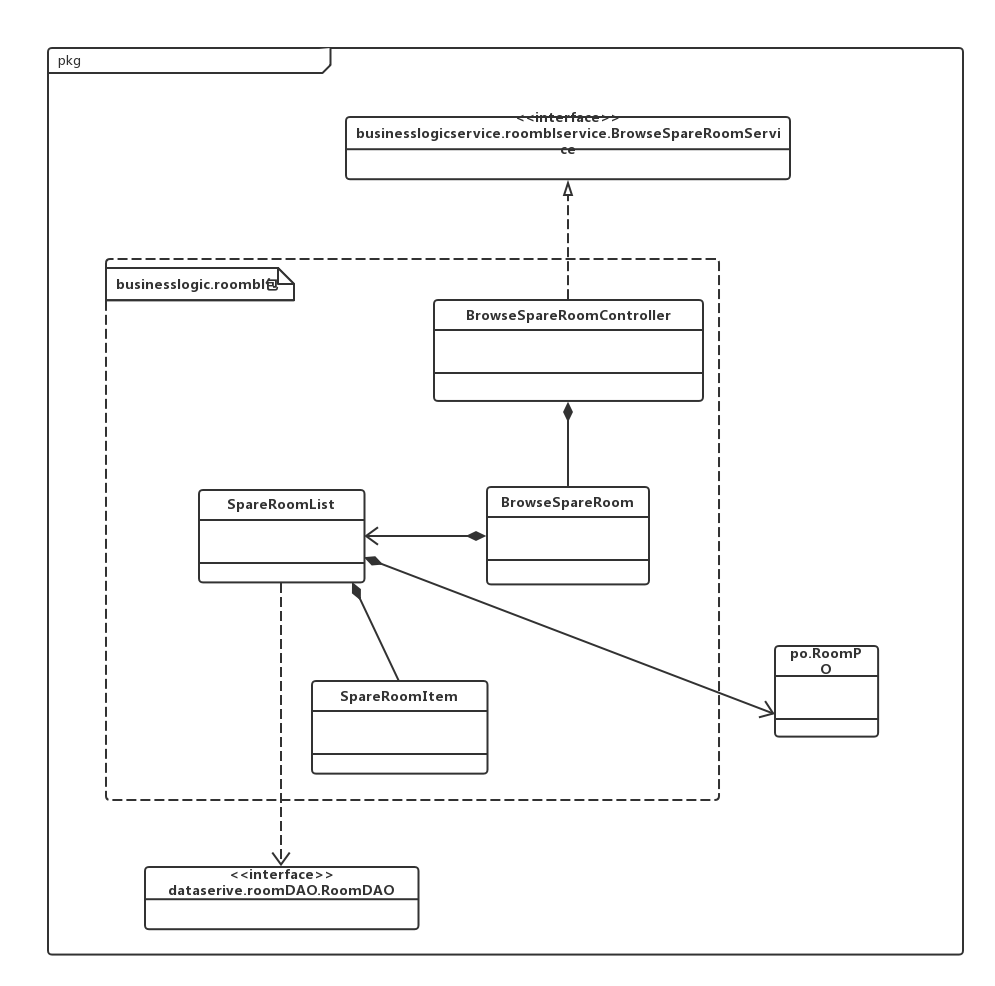
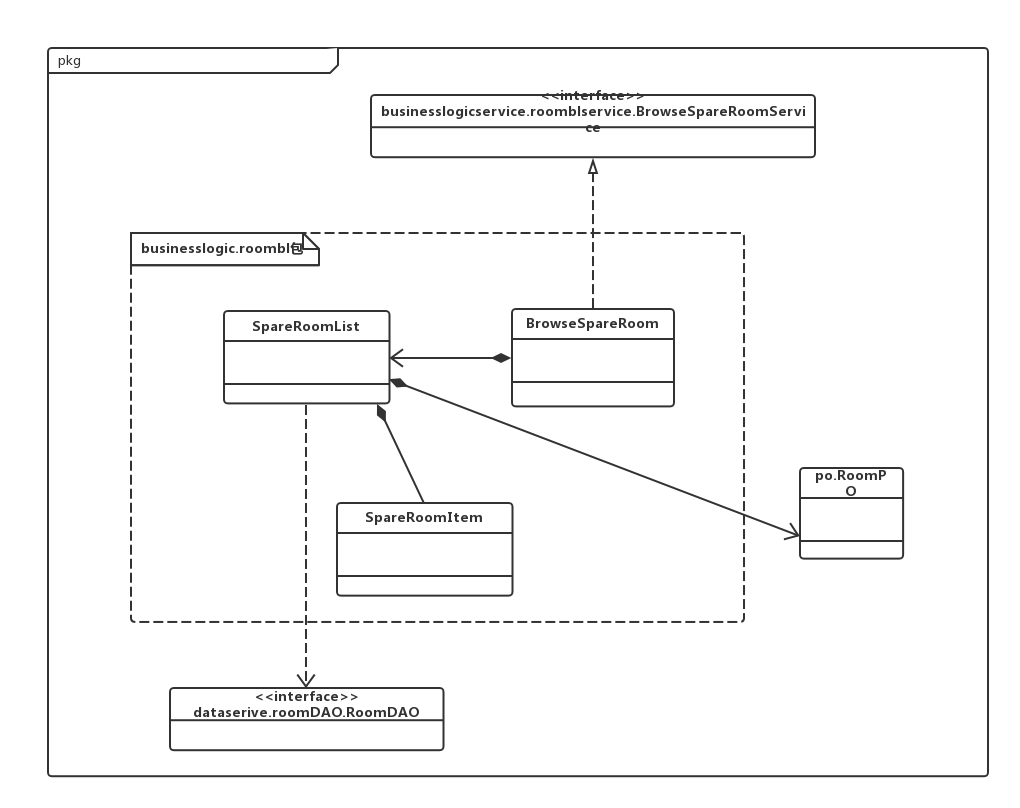
新建bl层的类

diff --git a/Codes/Hotel_Client/src/businesslogic/roombl/updateCheckOut/UpdateCheckOutServiceImpl.java b/Codes/Hotel_Client/src/businesslogic/roombl/updateCheckOut/UpdateCheckOutServiceImpl.java
@@ -1,0 +1,11 @@
+package businesslogic.roombl.updateCheckOut;
+
+/**
+ * 
+ * @author 双
+ * @version 
+ * @see
+ */
+public class UpdateCheckOutServiceImpl {
+
+}

diff --git a/Codes/Hotel_Client/src/businesslogic/roombl/updateCheckIn/UpdateCheckInServiceImpl.java b/Codes/Hotel_Client/src/businesslogic/roombl/updateCheckIn/UpdateCheckInServiceImpl.java
@@ -1,0 +1,11 @@
+package businesslogic.roombl.updateCheckIn;
+
+/**
+ * 
+ * @author 双
+ * @version 
+ * @see
+ */
+public class UpdateCheckInServiceImpl {
+
+}

diff --git a/Codes/Hotel_Client/src/businesslogic/roombl/browseSpareRoom/BrowseSpareRoom.java b/Codes/Hotel_Client/src/businesslogic/roombl/browseSpareRoom/BrowseSpareRoom.java
@@ -1,0 +1,11 @@
+package businesslogic.roombl.browseSpareRoom;
+
+/**
+ * 
+ * @author 双
+ * @version 
+ * @see
+ */
+public class BrowseSpareRoom {
+
+}

diff --git a/Codes/Hotel_Client/src/businesslogic/roombl/browseSpareRoom/SpareRoomItem.java b/Codes/Hotel_Client/src/businesslogic/roombl/browseSpareRoom/SpareRoomItem.java
@@ -1,0 +1,11 @@
+package businesslogic.roombl.browseSpareRoom;
+
+/**
+ * 
+ * @author 双
+ * @version 
+ * @see
+ */
+public class SpareRoomItem {
+
+}

diff --git a/Codes/Hotel_Client/src/businesslogic/roombl/browseSpareRoom/SpareRoomList.java b/Codes/Hotel_Client/src/businesslogic/roombl/browseSpareRoom/SpareRoomList.java
@@ -1,0 +1,11 @@
+package businesslogic.roombl.browseSpareRoom;
+
+/**
+ * 
+ * @author 双
+ * @version 
+ * @see
+ */
+public class SpareRoomList {
+
+}

diff --git a/Codes/Hotel_Client/src/businesslogic/roombl/updateCheckOut/UpdateCheckOut.java b/Codes/Hotel_Client/src/businesslogic/roombl/updateCheckOut/UpdateCheckOut.java
@@ -1,0 +1,11 @@
+package businesslogic.roombl.updateCheckOut;
+
+/**
+ * 
+ * @author 双
+ * @version 
+ * @see
+ */
+public class UpdateCheckOut {
+
+}

diff --git a/Codes/Hotel_Client/src/businesslogic/roombl/updateCheckIn/UpdateCheckIn.java b/Codes/Hotel_Client/src/businesslogic/roombl/updateCheckIn/UpdateCheckIn.java
@@ -1,0 +1,11 @@
+package businesslogic.roombl.updateCheckIn;
+
+/**
+ * 
+ * @author 双
+ * @version 
+ * @see
+ */
+public class UpdateCheckIn {
+
+}

diff --git a/Codes/Hotel_Client/src/businesslogic/roombl/updateCheckOut/CheckOutItem.java b/Codes/Hotel_Client/src/businesslogic/roombl/updateCheckOut/CheckOutItem.java
@@ -1,0 +1,11 @@
+package businesslogic.roombl.updateCheckOut;
+
+/**
+ * 
+ * @author 双
+ * @version 
+ * @see
+ */
+public class CheckOutItem {
+
+}

diff --git a/Codes/Hotel_Client/src/businesslogic/roombl/updateCheckOut/CheckOutList.java b/Codes/Hotel_Client/src/businesslogic/roombl/updateCheckOut/CheckOutList.java
@@ -1,0 +1,11 @@
+package businesslogic.roombl.updateCheckOut;
+
+/**
+ * 
+ * @author 双
+ * @version 
+ * @see
+ */
+public class CheckOutList {
+
+}

diff --git a/Codes/Hotel_Client/src/businesslogic/strategybl/StrategyInfoServiceImpl.java b/Codes/Hotel_Client/src/businesslogic/strategybl/StrategyInfoServiceImpl.java
@@ -1,0 +1,11 @@
+package businesslogic.strategybl;
+
+/**
+ * 
+ * @author 双
+ * @version 
+ * @see
+ */
+public class StrategyInfoServiceImpl {
+
+}

diff --git a/Codes/Hotel_Client/src/businesslogic/roombl/updateCheckIn/CheckInItem.java b/Codes/Hotel_Client/src/businesslogic/roombl/updateCheckIn/CheckInItem.java
@@ -1,0 +1,11 @@
+package businesslogic.roombl.updateCheckIn;
+
+/**
+ * 
+ * @author 双
+ * @version 
+ * @see
+ */
+public class CheckInItem {
+
+}

diff --git a/Codes/Hotel_Client/src/businesslogic/roombl/updateCheckIn/CheckInList.java b/Codes/Hotel_Client/src/businesslogic/roombl/updateCheckIn/CheckInList.java
@@ -1,0 +1,11 @@
+package businesslogic.roombl.updateCheckIn;
+
+/**
+ * 
+ * @author 双
+ * @version 
+ * @see
+ */
+public class CheckInList {
+
+}
